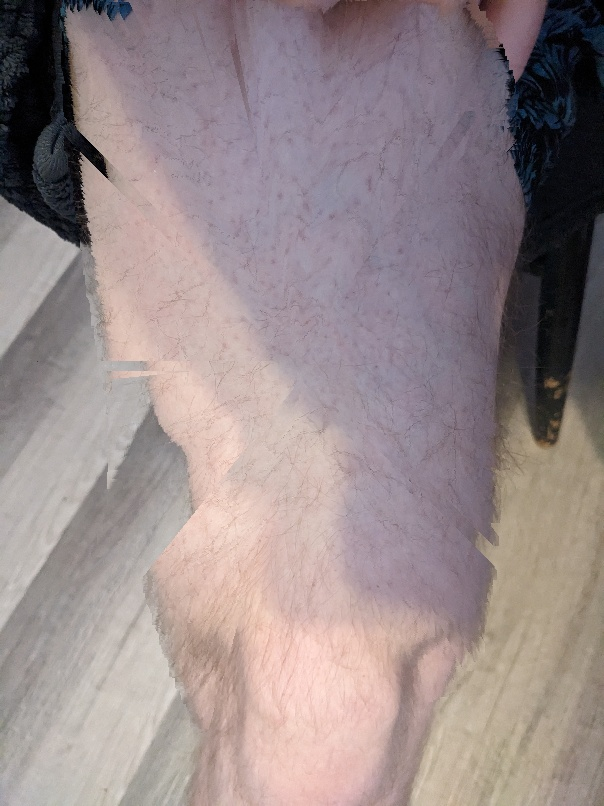
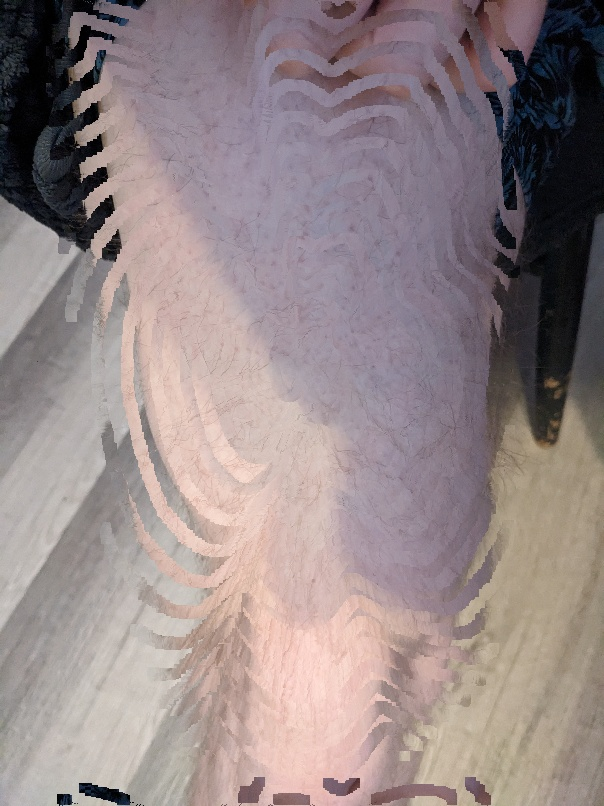
fixed angle issue, need to test to confirm but I gotta run

diff --git a/Deformation_Matching/polar_line_estimation.py b/Deformation_Matching/polar_line_estimation.py
@@ -89,7 +89,7 @@ def compute_polar_line(mask, center, saveFile, showprocess=False, save=True):
             cur_pnt = True if singled_mask[search_pnt[0], search_pnt[1]] > 0 else False
             
             if cur_pnt == False and last_pnt == True:
-                leaving_points.append((search_pnt[0], search_pnt[1]))
+                leaving_points.append((search_pnt[0], search_pnt[1], angle))
                 if save:
                     # Modifying the show point breaks the code???
                     cv2.drawMarker(show_mask, (search_pnt[1], search_pnt[0]),(255,0,0), markerType=cv2.MARKER_TRIANGLE_UP, markerSize=20, thickness=3, line_type=cv2.LINE_AA)
@@ -115,7 +115,7 @@ def compute_polar_line(mask, center, saveFile, showprocess=False, save=True):
         try:
             outline.append(leaving_points[0])
         except:
-            outline.append((search_pnt[0], search_pnt[1]))
+            outline.append((search_pnt[0], search_pnt[1], angle))
             pass
 
         angle += 360.0/numrays
@@ -179,8 +179,10 @@ def deform_image(img2, center, m1_edge_pts, m2_edge_pts, fileName):
         ratio = m2_center_dist/m1_center_dist
 
         # print("x: ", (m2_edge_pts[i][0] - m1_edge_pts[i][0]), ", y: ", (m2_edge_pts[i][1] - m1_edge_pts[i][1]))
-        angle = math.radians(math.atan(float((m2_edge_pts[i][0] - m1_edge_pts[i][0]))/(m2_edge_pts[i][1] - m1_edge_pts[i][1])))
+        # angle = math.radians(math.atan(float((m2_edge_pts[i][0] - m1_edge_pts[i][0]))/(m2_edge_pts[i][1] - m1_edge_pts[i][1])))
         # print("Angle: ", math.degrees(angle))
+        angle = math.radians(m1_edge_pts[i][2])
+        # print("Angle: ", angle)
 
         movedby = 0
 
@@ -204,10 +206,10 @@ def deform_image(img2, center, m1_edge_pts, m2_edge_pts, fileName):
                 break
 
 
-            cv2.drawMarker(new_img2, (search_pnt[1], search_pnt[0]),(0,0,255), markerType=cv2.MARKER_TRIANGLE_UP, markerSize=2, thickness=3, line_type=cv2.LINE_AA)
-            cv2.imshow("center", new_img2)
-            cv2.waitKey(30)
-            cv2.destroyAllWindows()
+            # cv2.drawMarker(new_img2, (search_pnt[1], search_pnt[0]),(0,0,255), markerType=cv2.MARKER_TRIANGLE_UP, markerSize=2, thickness=3, line_type=cv2.LINE_AA)
+            # cv2.imshow("center", new_img2)
+            # cv2.waitKey(30)
+            # cv2.destroyAllWindows()
 
             # print("Point: (", scaled_pnt_y, ", ", scaled_pnt_x, ") moved to position ", search_pnt)
 
